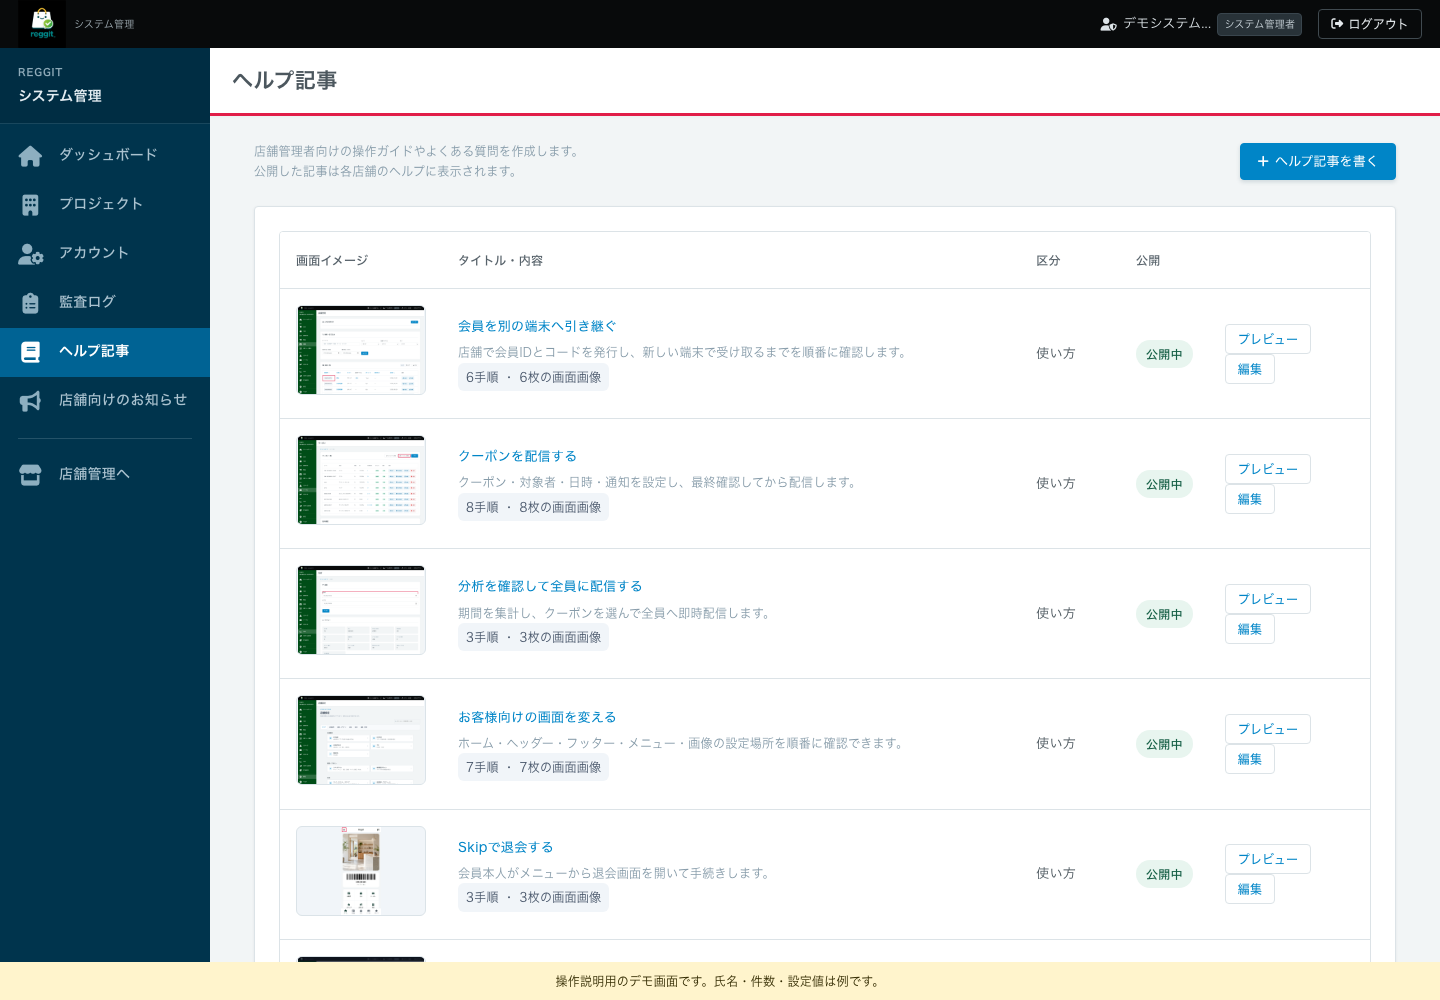
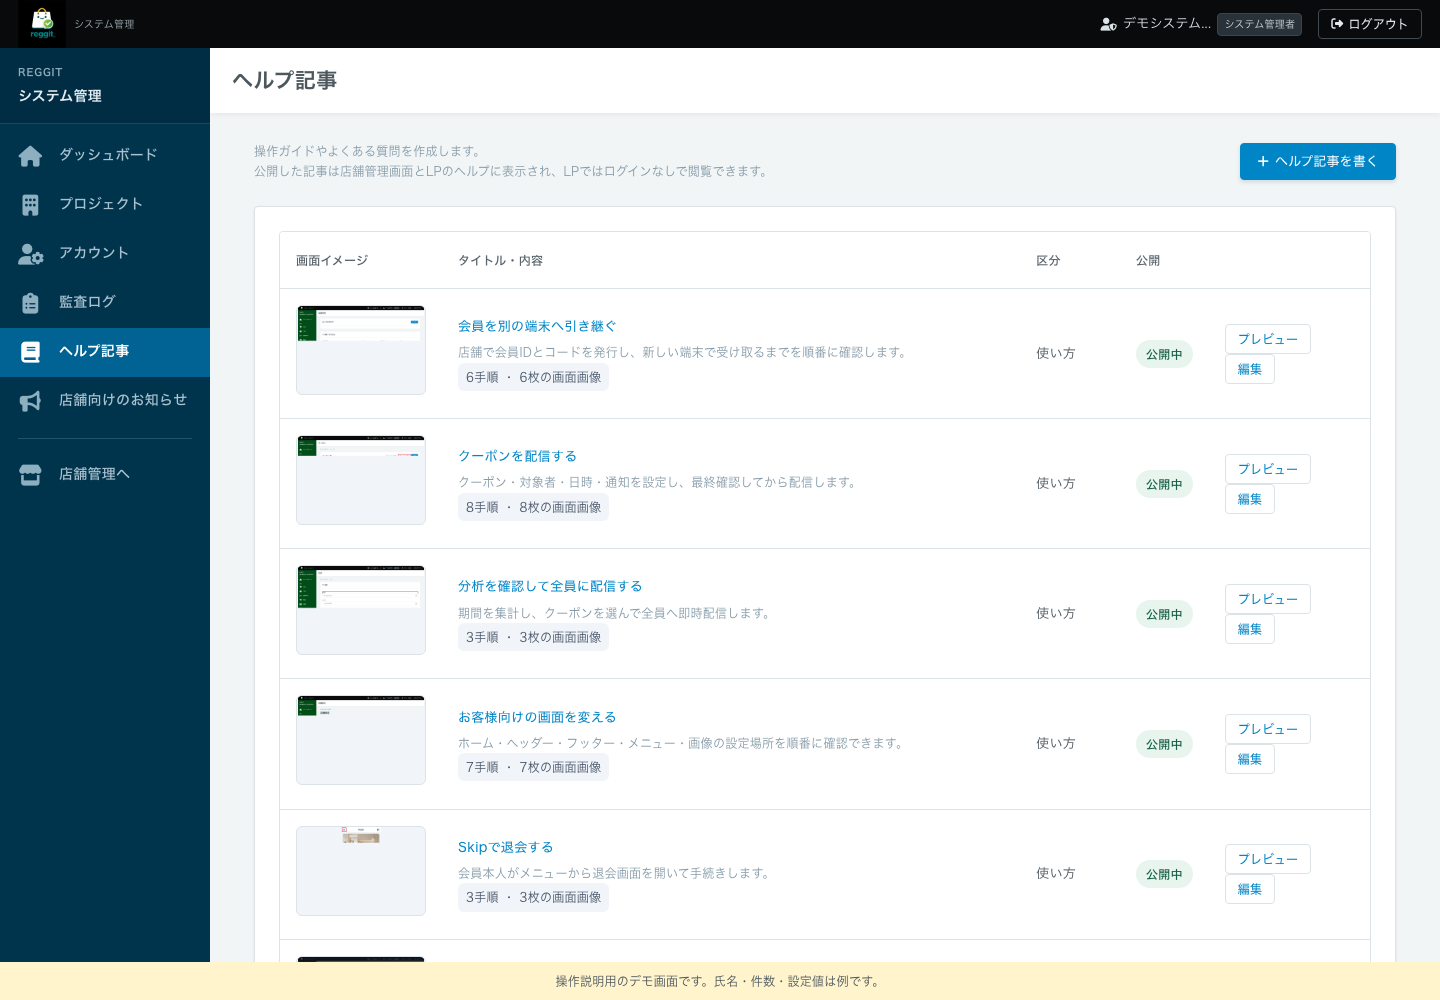
LPから全機能ヘルプをログイン不要で公開 (#391)
* Refine landing page around real product screens

* Refresh LP screenshots and clarify app plans

* Clarify required Smaregi connection and label LP demo

* feat: expose illustrated help from the landing page without authentication

diff --git a/e2e/web/tests/public-help.spec.ts b/e2e/web/tests/public-help.spec.ts
@@ -1,0 +1,52 @@
+import { expect, test } from '@playwright/test';
+
+test('LPから未ログインで全機能のヘルプを検索・閲覧できる', async ({ page }) => {
+  test.setTimeout(180_000);
+  await page.goto('/');
+  await expect(page.getByRole('heading', { level: 1 })).toContainText('いつものLINEで');
+  await page.getByRole('navigation', { name: 'メインナビゲーション', exact: true })
+    .getByRole('link', { name: 'ヘルプ', exact: true }).click();
+  await expect(page).toHaveURL(/\/help$/);
+  const articles = await page.locator('.help-list a').evaluateAll(nodes => nodes.map(node => (node as HTMLAnchorElement).href));
+  expect(articles.length).toBe(80);
+  for (const url of articles) {
+    const response = await page.goto(url);
+    expect(response?.status()).toBe(200);
+    await expect(page.locator('.help-manual h1')).toBeVisible();
+    const images = page.locator('.help-shot img');
+    expect(await images.count()).toBeGreaterThan(0);
+    for (const image of await images.all()) {
+      await image.scrollIntoViewIfNeeded();
+      await expect.poll(() => image.evaluate(node => (node as HTMLImageElement).naturalWidth)).toBeGreaterThan(0);
+    }
+  }
+  await page.goto('/help');
+  await page.getByRole('searchbox', { name: '知りたい機能を検索' }).fill('既存会員');
+  await page.getByRole('button', { name: '検索', exact: true }).click();
+  await page.getByRole('link', { name: /^スマレジの既存会員をアプリに連携する/ }).click();
+  await expect(page).toHaveURL(/\/help\/existing-member-link$/);
+  await expect(page.getByRole('link', { name: '全機能のヘルプ一覧へ戻る', exact: true })).toHaveAttribute('href', '/help');
+  await page.getByRole('link', { name: '関連する操作のヘルプを読む', exact: true }).click();
+  await expect(page).toHaveURL(/\/help\/feature-overview$/);
+});
+
+test('スマートフォンでもLPメニューから公開ヘルプと画像を開ける', async ({ page }) => {
+  await page.setViewportSize({ width: 390, height: 844 });
+  await page.goto('/');
+  await page.locator('.lp-mobile-nav summary').click();
+  await page.getByRole('navigation', { name: 'モバイルナビゲーション', exact: true })
+    .getByRole('link', { name: 'ヘルプ', exact: true }).click();
+  await expect(page).toHaveURL(/\/help$/);
+  await page.screenshot({ path: '/tmp/reggit-public-help-mobile-index.png', fullPage: true });
+  expect(await page.evaluate(() => document.documentElement.scrollWidth)).toBeLessThanOrEqual(390);
+  await page.goto('/help/existing-member-link');
+  await expect(page.getByRole('heading', { level: 1 })).toContainText('既存会員');
+  await page.screenshot({ path: '/tmp/reggit-public-help-mobile-article.png', fullPage: true });
+  expect(await page.evaluate(() => document.documentElement.scrollWidth)).toBeLessThanOrEqual(390);
+  const imageLink = page.locator('.help-shot__frame').first();
+  const popupPromise = page.waitForEvent('popup');
+  await imageLink.click();
+  const popup = await popupPromise;
+  await expect(popup).toHaveURL(/\/images\/help\/guide-app-existing\.png$/);
+  await popup.close();
+});

diff --git a/public/css/help-public.css b/public/css/help-public.css
@@ -1,0 +1,21 @@
+.public-help { margin: 0 auto; padding-top: 48px; padding-bottom: 64px; }
+.public-help h1 { margin-top: 20px; overflow-wrap: anywhere; }
+.public-help h2 { margin-top: 32px; }
+.public-help a { color: #12658b; text-underline-offset: 3px; }
+.public-help .help-list { padding: 0; list-style: none; }
+.public-help .help-list a { color: #14211d; }
+.public-help .help-list li { margin-bottom: 12px; }
+.public-help .help-list span { display: block; margin-top: 6px; }
+.public-help .help-search { flex-wrap: wrap; margin: 28px 0; }
+.public-help .help-search input { min-width: 0; }
+.public-help .help-markdown ol { padding-left: 24px; }
+.public-help .help-markdown li { margin-bottom: 12px; }
+.public-help-note { padding: 12px 16px; background: #edf4f6; border-radius: 8px; color: #4b5563; font-size: 14px; }
+.public-help .help-shot { margin: 20px 0; }
+.public-help .help-shot__frame { border: 1px solid #dbe3e8; border-radius: 8px; padding: 12px; }
+.public-help .help-shot img { margin-inline: auto; }
+@media (max-width: 640px) {
+    .public-help { padding-top: 24px; padding-bottom: 40px; }
+    .public-help .help-search input { flex-basis: 100%; }
+    .public-help .help-shot__frame { padding: 6px; }
+}

diff --git a/app/Support/HelpMarkdown.php b/app/Support/HelpMarkdown.php
@@ -7,7 +7,7 @@ use App\Util\AdminContext;
 /** ヘルプ本文用の最小Markdown。HTMLは出さない。 */
 final class HelpMarkdown
 {
-    public function toHtml(string $markdown): string
+    public function toHtml(string $markdown, bool $public = false): string
     {
         $escaped = htmlspecialchars($markdown, ENT_QUOTES | ENT_SUBSTITUTE, 'UTF-8');
         $lines = preg_split("/\r\n|\n|\r/", $escaped);
@@ -22,7 +22,7 @@ final class HelpMarkdown
         $toc = [];
         foreach ($lines as $line) {
             if (preg_match('/^## (.+)$/', $line, $heading) === 1) {
-                $toc[] = '<li><a href="#help-section-'.(count($toc) + 1).'">'.$this->inline($heading[1]).'</a></li>';
+                $toc[] = '<li><a href="#help-section-'.(count($toc) + 1).'">'.$this->inline($heading[1], $public).'</a></li>';
             }
         }
         if (count($toc) > 1) {
@@ -40,7 +40,7 @@ final class HelpMarkdown
                 continue;
             }
             if (preg_match('/^### (.+)$/', $line, $matches) === 1) {
-                $html .= $this->closeList($list).'<h3>'.$this->inline($matches[1]).'</h3>';
+                $html .= $this->closeList($list).'<h3>'.$this->inline($matches[1], $public).'</h3>';
 
                 continue;
             }
@@ -49,12 +49,12 @@ final class HelpMarkdown
                 $sectionOpen = true;
                 $headingIndex++;
                 $class = $matches[1] === '注意' ? 'help-guide-section help-guide-section--caution' : 'help-guide-section';
-                $html .= '<section class="'.$class.'" id="help-section-'.$headingIndex.'"><h2>'.$this->inline($matches[1]).'</h2>';
+                $html .= '<section class="'.$class.'" id="help-section-'.$headingIndex.'"><h2>'.$this->inline($matches[1], $public).'</h2>';
 
                 continue;
             }
             if (preg_match('/^# (.+)$/', $line, $matches) === 1) {
-                $html .= $this->closeList($list).'<h2>'.$this->inline($matches[1]).'</h2>';
+                $html .= $this->closeList($list).'<h2>'.$this->inline($matches[1], $public).'</h2>';
 
                 continue;
             }
@@ -64,11 +64,11 @@ final class HelpMarkdown
                     $html .= $this->closeList($list).'<'.$tag.'>';
                     $list = $tag;
                 }
-                $html .= '<li>'.$this->inline($matches[2]).'</li>';
+                $html .= '<li>'.$this->inline($matches[2], $public).'</li>';
 
                 continue;
             }
-            $html .= $this->closeList($list).'<p>'.$this->inline($line).'</p>';
+            $html .= $this->closeList($list).'<p>'.$this->inline($line, $public).'</p>';
         }
 
         return $html.$this->closeList($list).($sectionOpen ? '</section>' : '');
@@ -85,16 +85,22 @@ final class HelpMarkdown
         return $closing;
     }
 
-    private function inline(string $text): string
+    private function inline(string $text, bool $public): string
     {
         $text = preg_replace('/`([^`]+)`/', '<code>$1</code>', $text) ?? $text;
 
         $text = preg_replace('/\*\*([^*]+)\*\*/', '<strong>$1</strong>', $text) ?? $text;
 
-        return preg_replace_callback('~(?<!!)\[([^\]\n]+)\]\(([^)\s]+)\)~', function (array $matches): string {
+        return preg_replace_callback('~(?<!!)\[([^\]\n]+)\]\(([^)\s]+)\)~', function (array $matches) use ($public): string {
             $url = html_entity_decode($matches[2], ENT_QUOTES | ENT_HTML5, 'UTF-8');
             if (preg_match('~^/(?!/)[a-zA-Z0-9/_?&=.%#{}+\~-]*$~D', $url) !== 1) {
                 return $matches[0];
+            }
+            if ($public && preg_match('~^/admin/\{project_key\}/help(?:/([a-zA-Z0-9_-]+))?$~D', $url, $helpLink) === 1) {
+                $url = isset($helpLink[1]) ? '/help/'.$helpLink[1] : '/help';
+            }
+            if ($public && str_starts_with($url, '/liff/{project_key}')) {
+                $url = str_replace('/liff/{project_key}', '/demo/liff', $url);
             }
             if (str_contains($url, '{project_key}')) {
                 $projectKey = request()->route('project_key') ?? AdminContext::getCurrentProject()?->project_key;

diff --git a/tests/Feature/PublicHelpTest.php b/tests/Feature/PublicHelpTest.php
@@ -1,0 +1,66 @@
+<?php
+
+namespace Tests\Feature;
+
+use App\Models\HelpArticle;
+use Database\Seeders\HelpArticleSeeder;
+use Illuminate\Foundation\Testing\RefreshDatabase;
+use Tests\TestCase;
+
+class PublicHelpTest extends TestCase
+{
+    use RefreshDatabase;
+
+    public function test_guests_can_browse_all_published_guides_from_the_landing_page(): void
+    {
+        $this->get('/')->assertOk()->assertSee(route('help.index'), false);
+        $this->get('/help')->assertOk()->assertViewIs('help.index')
+            ->assertViewHas('articles', fn (array $articles): bool => count($articles) === count((new HelpArticleSeeder)->articles()))
+            ->assertSee(route('help.show', ['slug' => 'existing-member-link']), false);
+
+        foreach ((new HelpArticleSeeder)->articles() as $article) {
+            $this->get('/help/'.$article['slug'])->assertOk()->assertSee($article['title'])
+                ->assertSee('class="help-shot"', false);
+        }
+        $this->assertGuest('admin');
+    }
+
+    public function test_guests_can_search_body_text_and_follow_public_related_guides(): void
+    {
+        $this->get('/help?q='.urlencode('合算'))->assertOk()
+            ->assertSee('スマレジの既存会員をアプリに連携する')
+            ->assertDontSee('クーポンを作成・編集して利用状況を確認する');
+        $this->get('/help/existing-member-link')->assertOk()
+            ->assertSee('href="/help/feature-overview"', false)
+            ->assertSee('href="/help"', false)
+            ->assertSee('href="/demo/liff#/more/link"', false)
+            ->assertDontSee('{project_key}');
+    }
+
+    public function test_unpublished_and_unknown_articles_are_not_public(): void
+    {
+        HelpArticle::where('slug', 'existing-member-link')->update(['is_published' => false]);
+        $this->get('/help')->assertOk()->assertDontSee('スマレジの既存会員をアプリに連携する');
+        $this->get('/help/existing-member-link')->assertNotFound();
+        $this->get('/help/unknown-article')->assertNotFound();
+    }
+
+    public function test_public_search_rejects_array_input_and_escapes_html(): void
+    {
+        $this->getJson('/help?q[]=invalid')->assertUnprocessable()->assertJsonValidationErrors('q');
+        $this->get('/help?q='.urlencode('<script>alert(1)</script>'))->assertOk()
+            ->assertDontSee('<script>alert(1)</script>', false);
+    }
+
+    public function test_public_article_escapes_stored_titles_summaries_and_body(): void
+    {
+        HelpArticle::create([
+            'slug' => 'escaped-guide', 'title' => '<script>alert(1)</script>',
+            'summary' => '<script>alert(1)</script>', 'body' => '<script>alert(1)</script>',
+            'category' => 'guide', 'is_published' => true,
+        ]);
+        $this->get('/help/escaped-guide')->assertOk()
+            ->assertSee('&lt;script&gt;alert(1)&lt;/script&gt;', false)
+            ->assertDontSee('<script>alert(1)</script>', false);
+    }
+}

diff --git a/resources/views/landing.blade.php b/resources/views/landing.blade.php
@@ -26,6 +26,7 @@
                 <a href="#features">できること</a>
                 <a href="#flow">導入の流れ</a>
                 <a href="#faq">よくある質問</a>
+                <a href="{{ route('help.index') }}">ヘルプ</a>
             </nav>
             <div class="lp-header__actions">
                 <a class="lp-login" href="{{ route('admin.login') }}">管理画面ログイン</a>
@@ -37,6 +38,7 @@
                     <a href="#features">できること</a>
                     <a href="#flow">導入の流れ</a>
                     <a href="#faq">よくある質問</a>
+                    <a href="{{ route('help.index') }}">ヘルプ</a>
                     <a href="{{ route('landing.register.email.show') }}">導入登録</a>
                     <a href="{{ route('admin.login') }}">管理画面ログイン</a>
                 </nav>
@@ -202,7 +204,7 @@
     <footer class="lp-footer">
         <div class="lp-container lp-footer__main">
             <div><a class="lp-brand" href="/" aria-label="Reggit トップへ"><img src="{{ asset('images/reggit-logo.png') }}" alt="" width="40" height="40"><span>Reggit</span></a><p>お店のためのLINEミニアプリ・管理システム</p></div>
-            <nav aria-label="フッターナビゲーション"><a href="#features">できること</a><a href="#flow">導入の流れ</a><a href="{{ route('demo.liff') }}">デモを体験する</a><a href="{{ route('admin.login') }}">管理画面ログイン</a></nav>
+            <nav aria-label="フッターナビゲーション"><a href="#features">できること</a><a href="#flow">導入の流れ</a><a href="{{ route('help.index') }}">ヘルプ・使い方</a><a href="{{ route('demo.liff') }}">デモを体験する</a><a href="{{ route('admin.login') }}">管理画面ログイン</a></nav>
         </div>
         <div class="lp-container lp-footer__bottom"><small>&copy; {{ date('Y') }} Reggit</small></div>
     </footer>

diff --git a/resources/views/help/index.blade.php b/resources/views/help/index.blade.php
@@ -1,0 +1,36 @@
+@extends('layouts.lp')
+
+@section('title', 'ヘルプ・使い方')
+
+@section('content')
+<article class="lp-container public-help help-manual">
+    <a class="public-help-back" href="/">Reggit トップへ</a>
+    <h1>ヘルプ・使い方</h1>
+    <p class="help-lead">会員・注文・予約・特典などの操作を、画面画像と詳しい手順で確認できます。どなたでもログインなしで読めます。</p>
+    <form class="help-search" method="GET" action="{{ route('help.index') }}" role="search">
+        <label for="help-q">知りたい機能を検索</label>
+        <input id="help-q" type="search" name="q" value="{{ $query }}" maxlength="200" placeholder="例：既存会員連携、予約、クーポン">
+        <button class="lp-button lp-button--small" type="submit">検索</button>
+    </form>
+    @foreach(['guide' => '使い方', 'faq' => 'よくある質問'] as $category => $label)
+        @php($items = array_filter($articles, fn (array $article): bool => $article['category'] === $category))
+        <section aria-labelledby="help-{{ $category }}">
+            <h2 id="help-{{ $category }}">{{ $label }}</h2>
+            @if($items === [])
+                <p class="help-empty">該当する項目はありません。別の機能名で検索してください。</p>
+            @else
+                <ul class="help-list">
+                    @foreach($items as $article)
+                        <li><a href="{{ route('help.show', ['slug' => $article['slug']]) }}"><strong>{{ $article['title'] }}</strong><span>{{ $article['summary'] }}</span></a></li>
+                    @endforeach
+                </ul>
+            @endif
+        </section>
+    @endforeach
+</article>
+@endsection
+
+@push('styles')
+<link rel="stylesheet" href="{{ asset('css/admin/components/12-help-manual.css') }}">
+<link rel="stylesheet" href="{{ asset('css/help-public.css') }}">
+@endpush

diff --git a/app/Http/Controllers/PublicHelpController.php b/app/Http/Controllers/PublicHelpController.php
@@ -1,0 +1,28 @@
+<?php
+
+namespace App\Http\Controllers;
+
+use App\Support\HelpMarkdown;
+use App\UseCases\Admin\Help\AdminHelpIndexUseCase;
+use App\UseCases\Admin\Help\AdminHelpShowUseCase;
+use Illuminate\Http\Request;
+use Illuminate\View\View;
+
+class PublicHelpController extends Controller
+{
+    public function index(Request $request, AdminHelpIndexUseCase $index): View
+    {
+        $data = $request->validate(['q' => ['nullable', 'string', 'max:200']]);
+        $query = trim($data['q'] ?? '');
+
+        return view('help.index', ['articles' => $index->handle($query), 'query' => $query]);
+    }
+
+    public function show(string $slug, AdminHelpShowUseCase $show, HelpMarkdown $markdown): View
+    {
+        $article = $show->handle($slug);
+        abort_if($article === null, 404);
+
+        return view('help.show', ['article' => $article, 'html' => $markdown->toHtml($article['body'], public: true)]);
+    }
+}

diff --git a/resources/views/help/show.blade.php b/resources/views/help/show.blade.php
@@ -1,0 +1,19 @@
+@extends('layouts.lp')
+
+@section('title', e($article['title']))
+
+@section('content')
+<article class="lp-container public-help help-manual">
+    <p class="help-back"><a href="{{ route('help.index') }}">ヘルプ一覧へ戻る</a></p>
+    <h1>{{ $article['title'] }}</h1>
+    <p class="help-lead">{{ $article['summary'] }}</p>
+    <p class="public-help-note">アプリ画面へのリンクはデモを開きます。画像もデモ例です。実際の店舗での操作は、ご利用中の管理画面・アプリで行ってください。</p>
+    <div class="help-markdown">{!! $html !!}</div>
+    <p class="help-back"><a href="{{ route('help.index') }}">ほかの機能のヘルプを探す</a></p>
+</article>
+@endsection
+
+@push('styles')
+<link rel="stylesheet" href="{{ asset('css/admin/components/12-help-manual.css') }}">
+<link rel="stylesheet" href="{{ asset('css/help-public.css') }}">
+@endpush

diff --git a/routes/web.php b/routes/web.php
@@ -95,6 +95,7 @@ use App\Http\Controllers\Onboarding\OnboardingPageController;
 use App\Http\Controllers\Payment\PaymentCardController;
 use App\Http\Controllers\Payment\PaymentReturnController;
 use App\Http\Controllers\PointGrantOpenController;
+use App\Http\Controllers\PublicHelpController;
 use App\Http\Controllers\Queue\QueueOpenController;
 use App\Http\Controllers\Smaregi\SmaregiIdpController;
 use App\Http\Controllers\Smaregi\SmaregiWebhookController;
@@ -104,6 +105,8 @@ use Illuminate\Support\Facades\Route;
 
 // ========== 公開 ==========
 Route::get('/', LandingController::class);
+Route::get('/help', [PublicHelpController::class, 'index'])->name('help.index');
+Route::get('/help/{slug}', [PublicHelpController::class, 'show'])->name('help.show');
 Route::view('/demo/liff', 'demo.liff')->name('demo.liff');
 
 Route::view('/lp/register/email', 'landing.email')->name('landing.register.email.show');

diff --git a/tests/Unit/HelpMarkdownTest.php b/tests/Unit/HelpMarkdownTest.php
@@ -9,6 +9,15 @@ use Tests\TestCase;
 
 class HelpMarkdownTest extends TestCase
 {
+    public function test_public_guides_link_to_public_help_and_customer_demos(): void
+    {
+        $html = (new HelpMarkdown)->toHtml("[一覧](/admin/{project_key}/help)\n[関連記事](/admin/{project_key}/help/existing-member-link)\n[アプリ](/liff/{project_key}#/more/link)", public: true);
+        $this->assertStringContainsString('href="/help"', $html);
+        $this->assertStringContainsString('href="/help/existing-member-link"', $html);
+        $this->assertStringContainsString('href="/demo/liff#/more/link"', $html);
+        $this->assertStringNotContainsString('{project_key}', $html);
+    }
+
     public function test_numbered_steps_are_rendered_as_an_ordered_list(): void
     {
         $html = (new HelpMarkdown)->toHtml("1. 画面を開く\n2. 保存する\n\n- 注意");

diff --git a/resources/views/layouts/lp.blade.php b/resources/views/layouts/lp.blade.php
@@ -10,6 +10,7 @@
     <link rel="preconnect" href="https://fonts.gstatic.com" crossorigin>
     <link href="https://fonts.googleapis.com/css2?family=Inter:wght@500;600;700&family=Noto+Sans+JP:wght@400;500;600;700&display=swap" rel="stylesheet">
     <link rel="stylesheet" href="{{ asset('css/landing.css') }}?v=60">
+    @stack('styles')
 </head>
 <body class="lp lp-sub">
     <header class="lp-header">
@@ -31,6 +32,7 @@
         <div class="lp-container lp-footer__inner">
             <a class="lp-brand" href="/" aria-label="Reggit トップへ"><img src="{{ asset('images/reggit-logo.png') }}" alt="Reggit" width="72" height="72"></a>
             <p>店舗アプリを、LINEでも、専用アプリでも。</p>
+            <a href="{{ route('help.index') }}">ヘルプ・使い方</a>
             <p>&copy; {{ date('Y') }} Reggit</p>
         </div>
     </footer>

diff --git a/resources/views/admin/system-help/index.blade.php b/resources/views/admin/system-help/index.blade.php
@@ -5,7 +5,7 @@
 
 @section('content')
 <div class="publishing-header">
-    <p class="form-text">店舗管理者向けの操作ガイドやよくある質問を作成します。<br>公開した記事は各店舗のヘルプに表示されます。</p>
+    <p class="form-text">操作ガイドやよくある質問を作成します。<br>公開した記事は店舗管理画面とLPのヘルプに表示され、LPではログインなしで閲覧できます。</p>
     <a href="{{ route('system-admin.help-articles.create') }}" class="btn btn-primary"><i class="fas fa-plus" aria-hidden="true"></i> ヘルプ記事を書く</a>
 </div>
 <div class="card">
